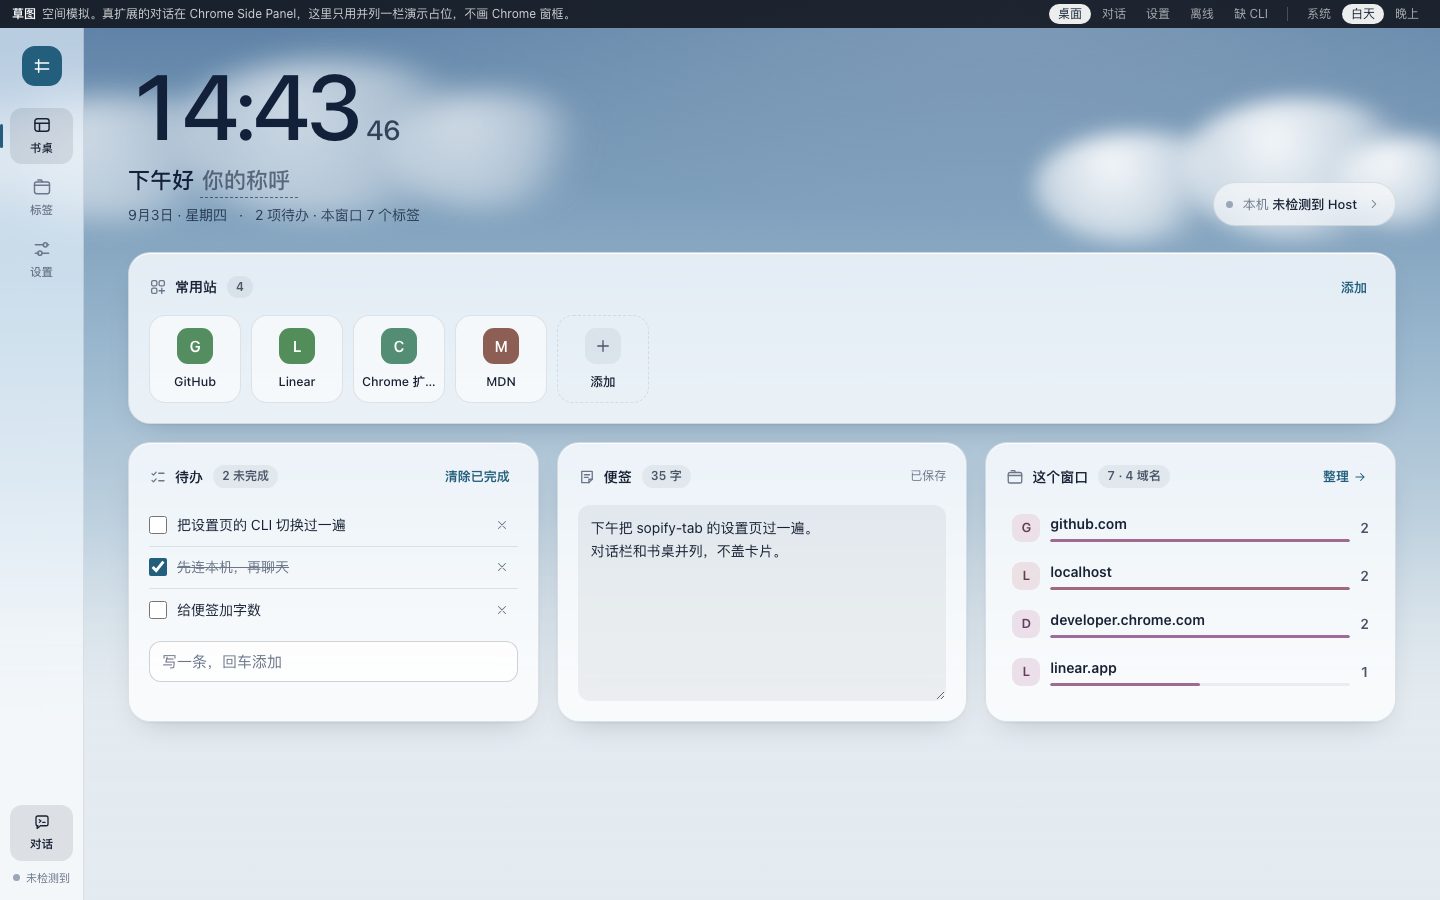
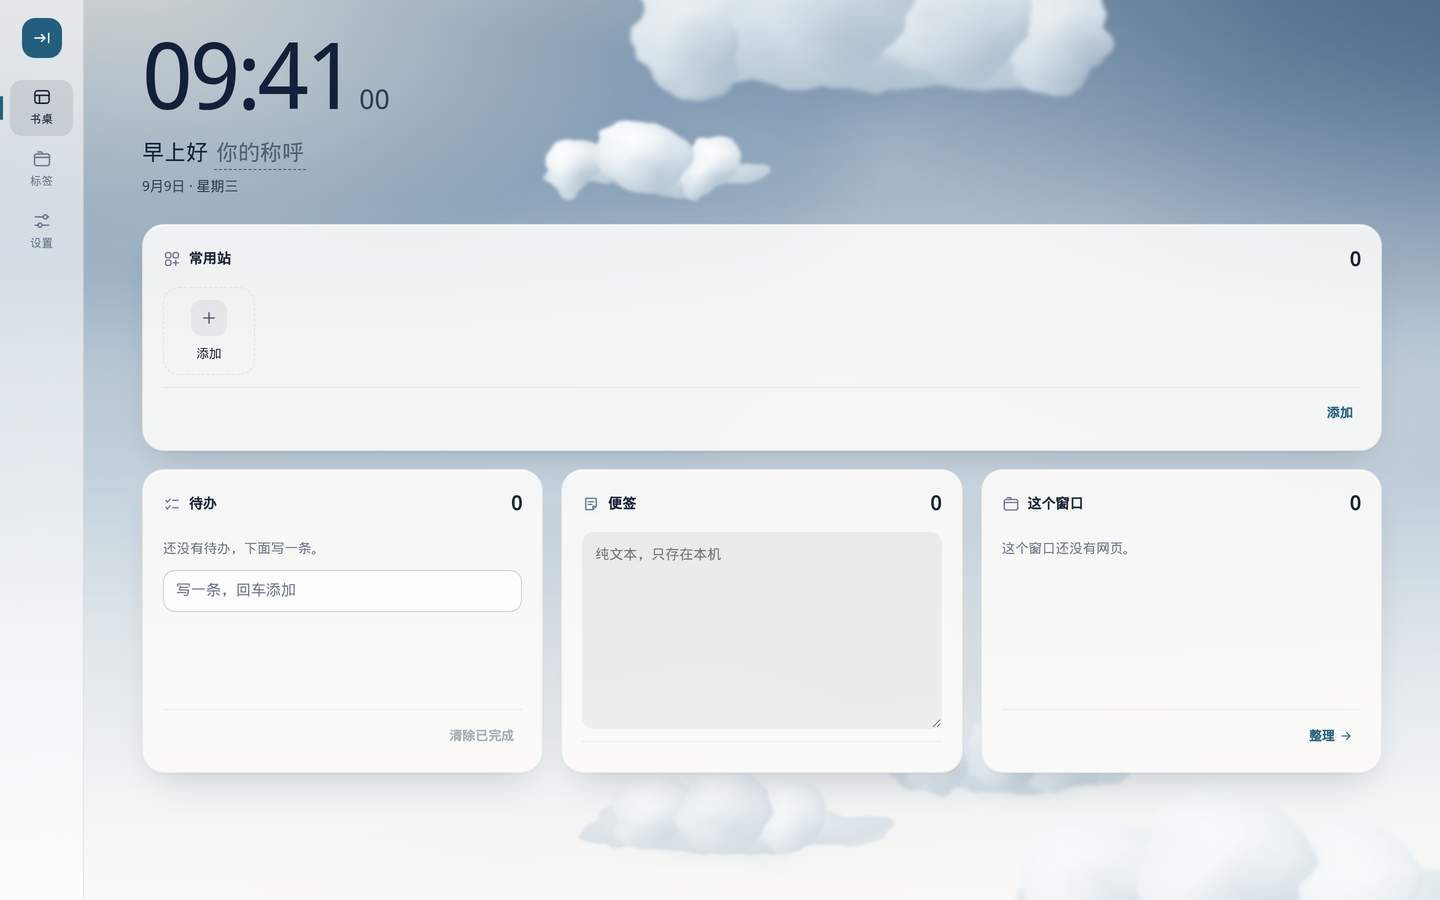
docs: refresh README desk screenshots (W7+W8)
Replace prototype-era hero/day/night stills with current NTP desk
captures after sky depth and glass/spacing polish. One line notes
that the new-tab sky aligns to prototype depth.

diff --git a/README.md b/README.md
@@ -4,6 +4,8 @@
 
 打开新标签页，先是一张安静书桌。
 
+新标签页天空已对齐原型深度。
+
 <img src="prototype/shots/day.png" alt="白天" width="48%"> <img src="prototype/shots/night.png" alt="夜晚" width="48%">
 
 ## 快速开始
